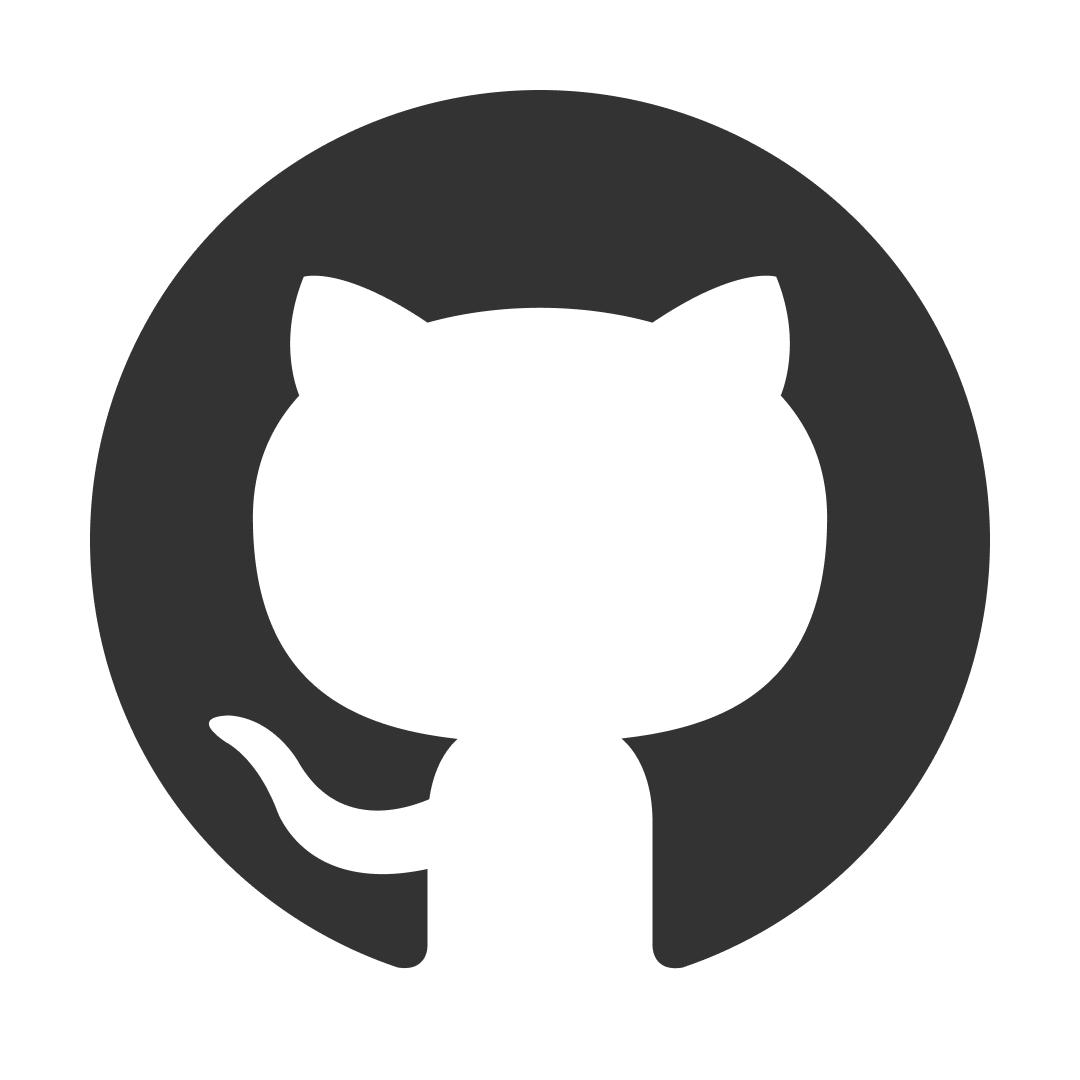
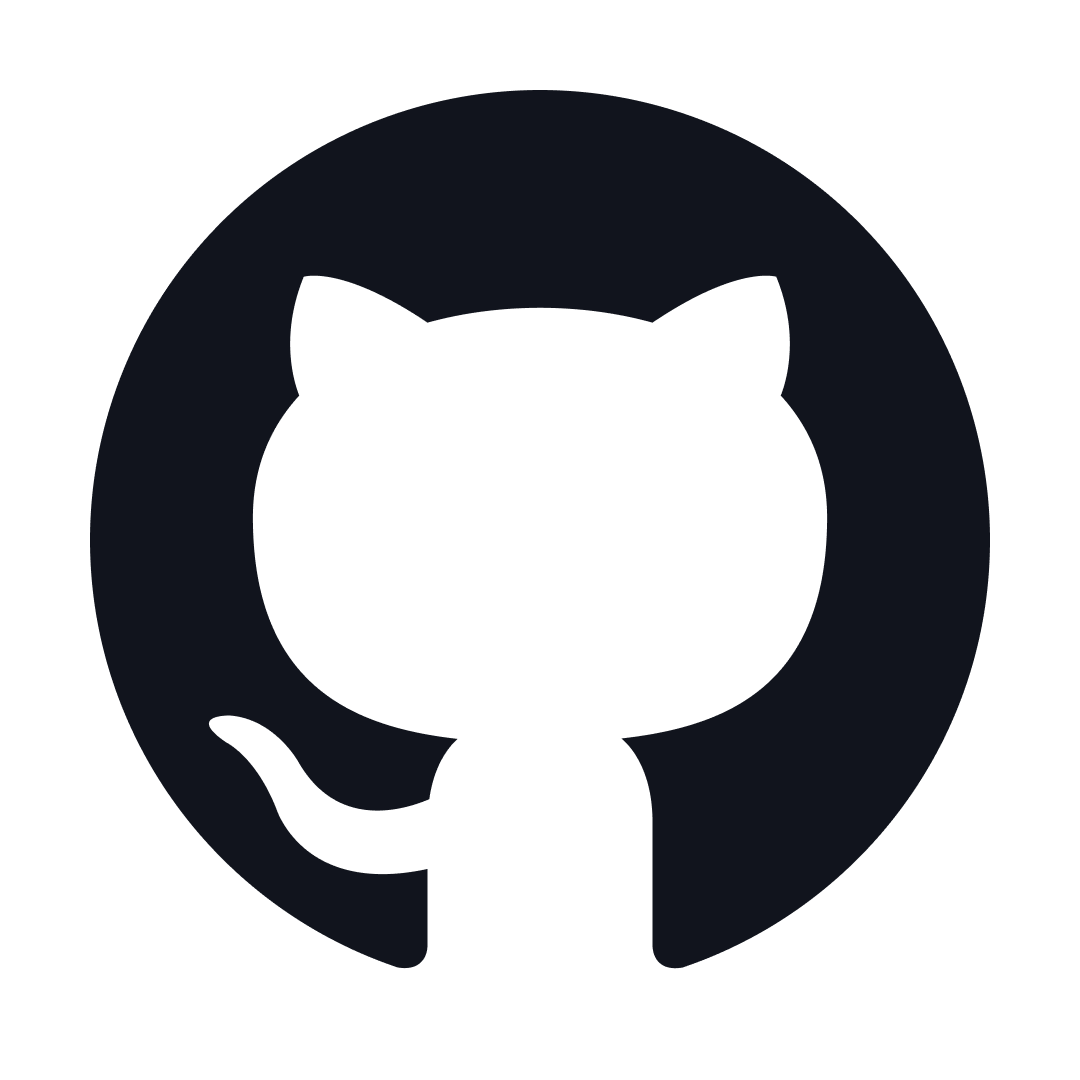
add color

Changed region(s): [[0.0611, 0.0611, 0.9167, 0.9167]]

diff --git a/styles.css b/styles.css
@@ -9,8 +9,8 @@ body {
 }
 
 nav {
-    background-color: #333;
-    color: #fff;
+    background-color: #6344C6;
+    color: #00;
     text-align: center;
     padding: 20px 0;
     position: fixed;
@@ -34,6 +34,7 @@ nav a {
 }
 
 main {
+    background-color: #FFC448;
     padding-left: 240px;
     padding-right: 240px;
     padding-top: 120px;
@@ -44,17 +45,17 @@ main {
 
 h1 {
     font-size: 24px;
-    color: #333;
+    color: #000;
 }
 
 h2 {
     font-size: 32spx;
-    color: #333;
+    color: #000;
 }
 
 p {
     font-size: 16px;
-    color: #666;
+    color: #000;
 }
 
 main .title {
@@ -120,14 +121,14 @@ main .sosmed a {
 
 .aboutme-head h1 {
     font-size: 32px;
-    color: #333;
+    color: #000;
     padding-top: 12px;
     padding-bottom: 20px;
 }
 
 .aboutme-head h2 {
-    background-color: #333;
-    color: #fff;
+    background-color: #FFC448;
+    color: #000;
     border: none;
     padding: 8px 16px;
     font-size: 16px;
@@ -137,7 +138,7 @@ main .sosmed a {
 
 .aboutme-item p {
     font-size: 16px;
-    color: #666;
+    color: #000;
     /* margin-right: 240px; */
 }
 
@@ -147,7 +148,7 @@ main .sosmed a {
 }
 
 .skills {
-    background-color: #f4f4f4;
+    background-color: #6344C6;
     padding-left: 240px;
     padding-right: 240px;
     padding-top: 120px;
@@ -165,14 +166,14 @@ main .sosmed a {
 
 .skills h1 {
     font-size: 32px;
-    color: #333;
+    color: #fff;
     padding-top: 12px;
     padding-bottom: 12px;
 }
 
 .skills-head h2 {
-    background-color: #333;
-    color: #fff;
+    background-color: #fff;
+    color: #000;
     border: none;
     padding: 8px 16px;
     font-size: 16px;
@@ -182,7 +183,7 @@ main .sosmed a {
 
 .skills p {
     font-size: 16px;
-    color: #333;
+    color: #fff;
     padding-bottom: 24px;
     margin-left: 120px;
 }
@@ -206,7 +207,7 @@ main .sosmed a {
 }
 
 .project-head h2 {
-    background-color: #333;
+    background-color: #6344C6;
     color: #fff;
     border: none;
     padding: 8px 16px;
@@ -217,7 +218,7 @@ main .sosmed a {
 
 .project-head h1 {
     font-size: 32px;
-    color: #333;
+    color: #000;
     padding-top: 12px;
     padding-bottom: 12px;
 }
@@ -232,7 +233,7 @@ main .sosmed a {
 }
 
 .tab button {
-    background-color: #333;
+    background-color: #6344C6;
     color: #fff;
     border: none;
     padding: 10px 20px;
@@ -259,7 +260,7 @@ margin-right :100px;
 }
 
 figcaption {
-    color: #333;
+    color: #000;
     font-size: 16px;
     font-weight: 600;
     margin-top: 10px; 
@@ -271,7 +272,6 @@ figcaption {
 }
 
 .explore {
-    background-color: #fff;
     padding-left: 240px;
     padding-right: 240px;
     align-items: center; /* Menengahkan elemen vertikal di tengah */
@@ -279,7 +279,7 @@ figcaption {
 }
 
 .explore-button {
-    background-color: #333;
+    background-color: #6344C6;
     color: #fff;
     border: none;
     padding: 10px 20px;
@@ -289,13 +289,13 @@ figcaption {
 }
 
 .explore-button:hover {
-    background-color: #fff;
-    color: #333;
-    border: 1px solid #ccc;
+    background-color: #6344C6;
+    color: #fff;
+    border: 1px solid #6344C6;
 }
 
 .hire {
-    background: linear-gradient(to bottom, #fff 50%, #333 50%);
+    background: linear-gradient(to bottom, #fff 50%, #11141D 50%);
     text-align: center;
     padding-top: 40px;
     padding-bottom: 40px;
@@ -304,7 +304,7 @@ figcaption {
 .hire_me {
     display: flex;
     align-items: center;
-    background-color: #a5a5a5;
+    background-color: #FFC448;
     padding-left: 80px; 
     padding-right: 80px; 
     padding-top: 60px; 
@@ -317,11 +317,11 @@ figcaption {
 
 .hire_me h1 {
     font-size: 32px; /* Ganti ukuran font sesuai kebutuhan Anda */
-    color: #333;
+    color: #6344C6;
 }
 
 .hire_me p {
-    color : #333;
+    color : #11141D;
     font-weight: 600;
     text-align: center; /* Mengatur teks agar berada di tengah */
     max-width: 400px;
@@ -329,8 +329,8 @@ figcaption {
 }
 
 .hire-button {
-    background-color: #333;
-    color: #fff;
+    background-color: #fff;
+    color: #11141D;
     border: none;
     padding: 12px 24px;
     font-size: 18px;
@@ -345,7 +345,7 @@ figcaption {
 }
 
 footer {
-    background-color: #333;
+    background-color: #11141D;
     color: #fff;
     display: flex;
     align-items: flex-start;

diff --git a/about.html b/about.html
@@ -10,31 +10,33 @@
             background-color: #fff;
             padding-left: 240px;
             padding-right: 240px;
-            padding-top: 60px;
-            padding-bottom: 60px;
+        }
+
+        .main-item p {
+            color: #11141D;
         }
         
         main h2 {
             font-size: 32px;
-            color: #333;
+            color: #11141D;
             padding-bottom: 32px;
         }
 
         .experience h2 {
             font-size: 32px;
-            color: #333;
+            color: #11141D;
             padding-bottom: 48px;
         }
 
         .education h2 {
             font-size: 32px;
-            color: #333;
+            color: #11141D;
             padding-bottom: 48px;
         }
         
         main p {
             font-size: 18px;
-            color: #666;
+            color: #11141D;
             max-width: 800px;
             padding-bottom: 12px;
         }
@@ -52,6 +54,7 @@
         }
 
         .education {
+            background-color: #FFC448;
             padding-left: 240px;
             padding-right: 240px;
             padding-top: 60px;
@@ -63,7 +66,7 @@
 
         .education li {
             font-size: 24px;
-            color: #666;
+            color: #11141D;
             font-weight: 600;
             padding-bottom: 12px;
         }
@@ -101,6 +104,7 @@
         }
 
         .training {
+            background-color: #FFC448;
             padding-left: 240px;
             padding-right: 240px;
             padding-top: 60px;
@@ -109,13 +113,13 @@
 
         .training h2 {
             font-size: 32px;
-            color: #333;
+            color: #11141D;
             padding-bottom: 8px;
         }
 
         .training li {
             font-size: 18px;
-            color: #666;
+            color: #11141D;
             padding-bottom: 4px;
         }
 

diff --git a/projects.html b/projects.html
@@ -8,19 +8,19 @@
 
         .main-head p {
             font-size: 18px;
-            color: #666;
+            color: #11141D;
             padding-bottom: 80px;
             text-align: center;
         }
 
         article {
+            background-color: #FFC448;
             padding-top: 120px;
-            padding-bottom:240px;
         }
 
         article h1 {
             font-size: 32px;
-            color: #333;
+            color: #11141D;
             padding-bottom: 40px;
             text-align: center;
         }
@@ -35,13 +35,6 @@
             font-size: 24px;
             color: #333;
             padding-bottom: 24px;
-        }
-
-        .experience-item {
-            font-size: 18px;
-            color: #666;
-            padding-top: 20px;
-            padding-bottom: 20px;
         }
 
         figure {
@@ -66,6 +59,7 @@
             font-size: large;
             font-weight: 600;
             font-style: italic;
+            padding-top: 12px;
         }
 
         .experience-item a:hover {

diff --git a/contact.html b/contact.html
@@ -31,9 +31,9 @@
             max-width: 580px;
             margin: 0 auto;
             padding: 40px;
-            border: 1px solid #ccc;
+            border: 1px solid #fff;
             border-radius: 12px;
-            background-color: #f9f9f9;
+            background-color: #FFC448;
         }
         
         form img {
@@ -70,7 +70,7 @@
         }
 
         button {
-            background-color: #007bff;
+            background-color: #6344C6;
             color: #fff;
             border: none;
             padding: 16px;
